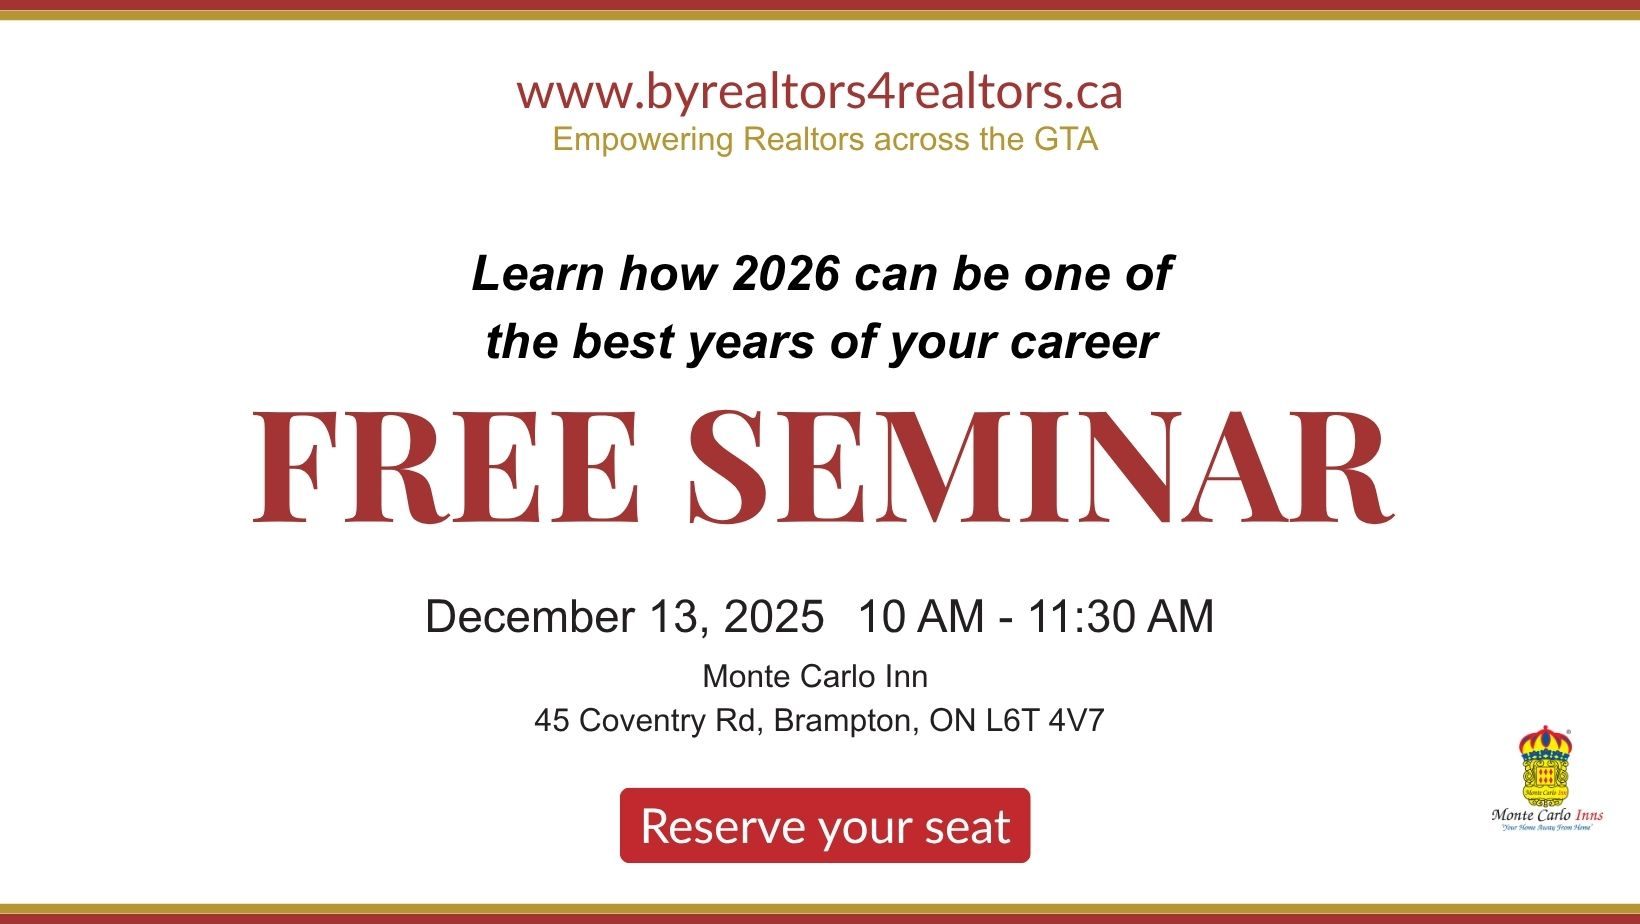
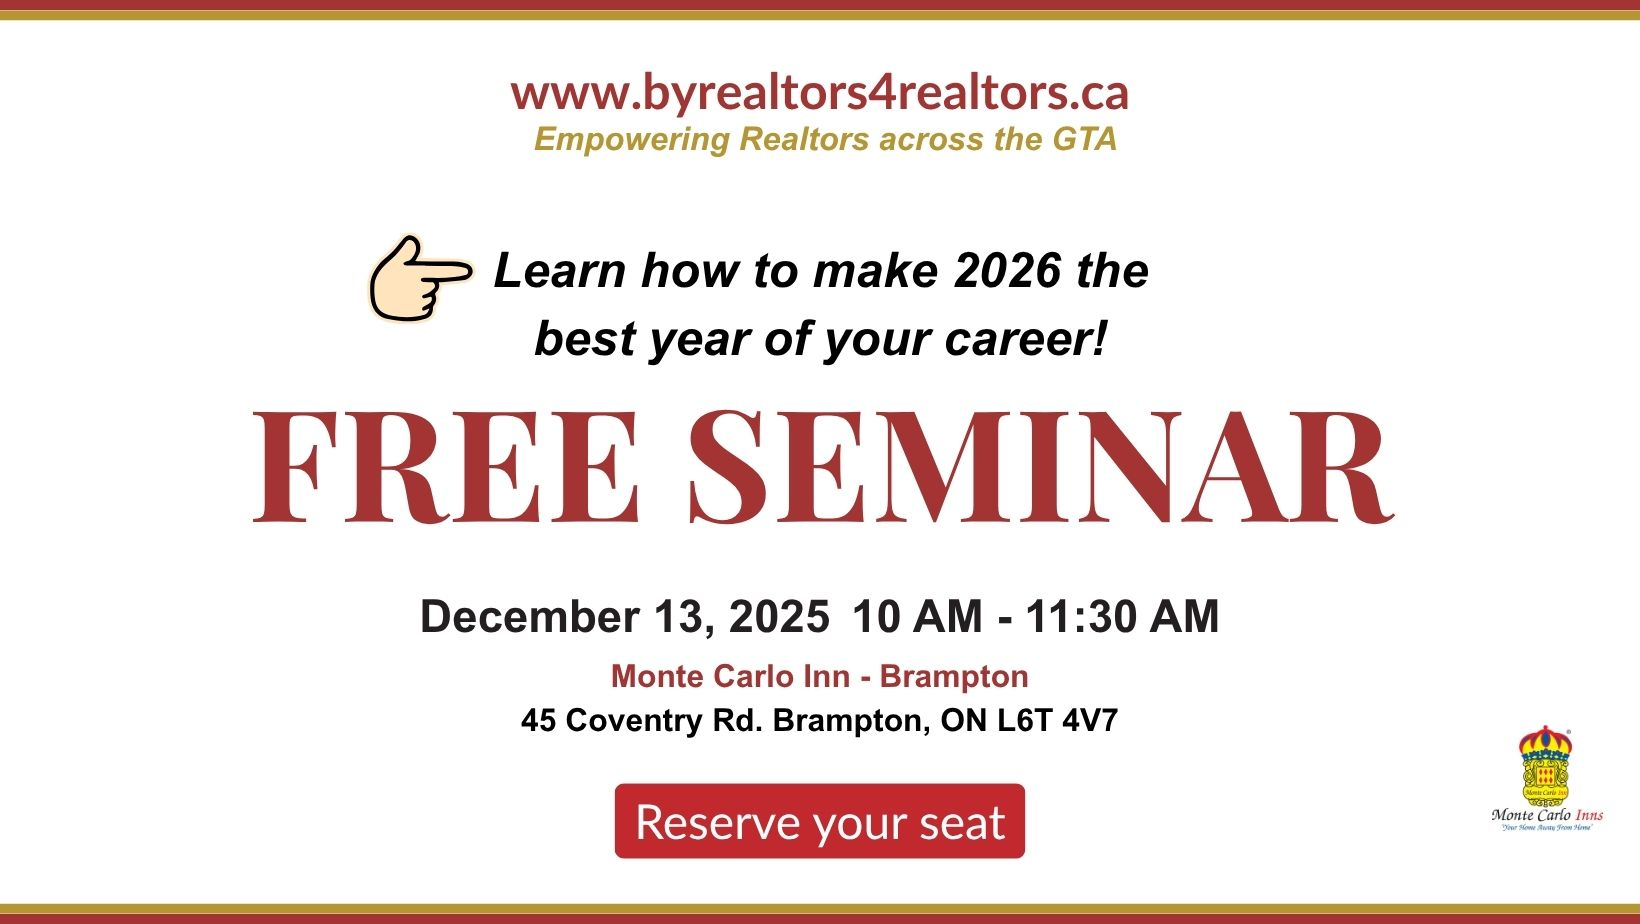
image updates

diff --git a/src/pages/Form.tsx b/src/pages/Form.tsx
@@ -28,8 +28,8 @@ const Form = () => {
           {/* Event banner image */}
           <div className="w-full max-w-4xl px-4 sm:px-6 mt-4">
             <img
-              src="/free-seminar-banner.png"
-              alt="Free Seminar on December 13, 2025 at Monte Carlo Inn, Brampton"
+              src="/Join Us Live Event December 13(1).jpg"
+              alt="Join us live event on December 13, 2025"
               className="w-full h-auto rounded-xl shadow-xl"
             />
           </div>
